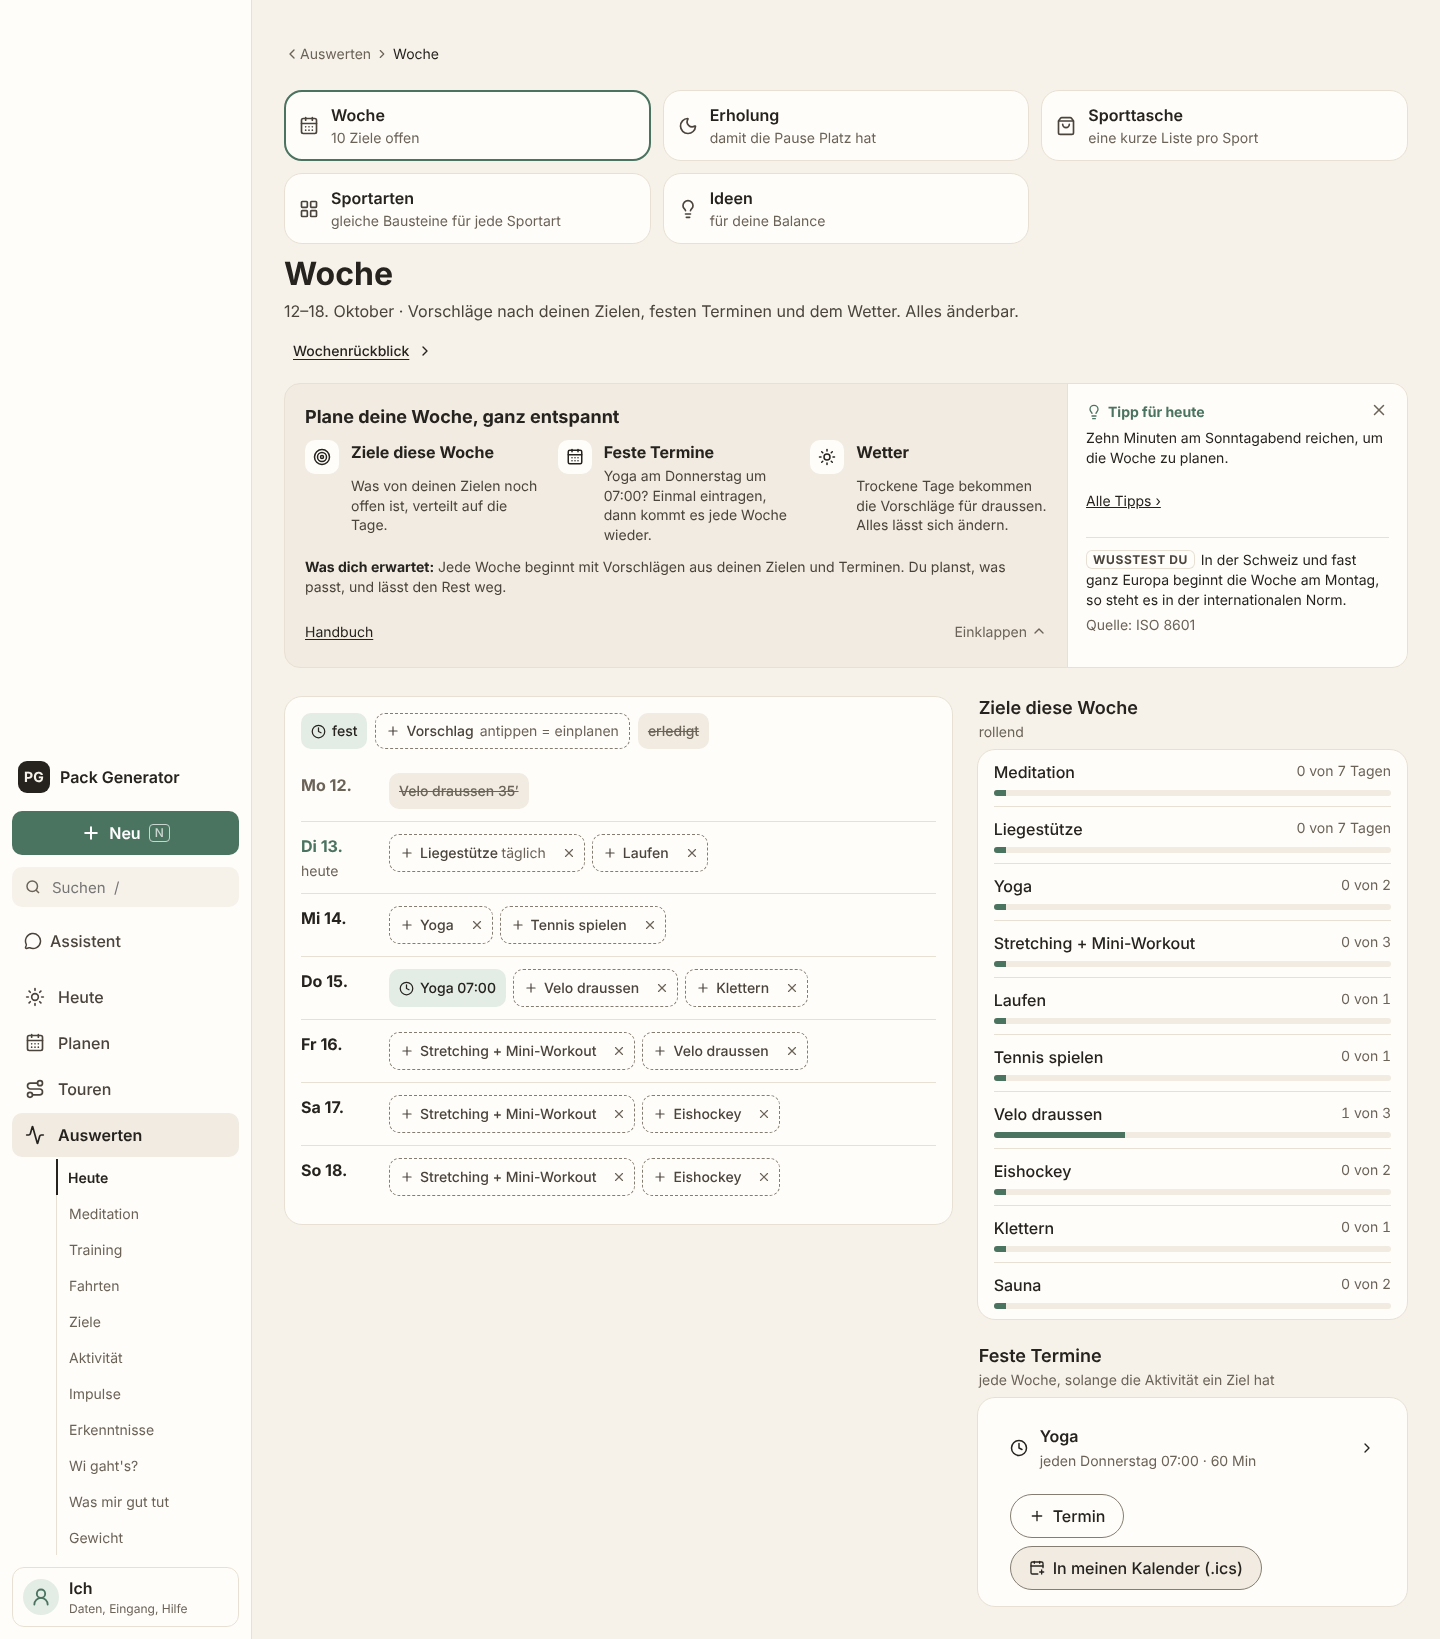
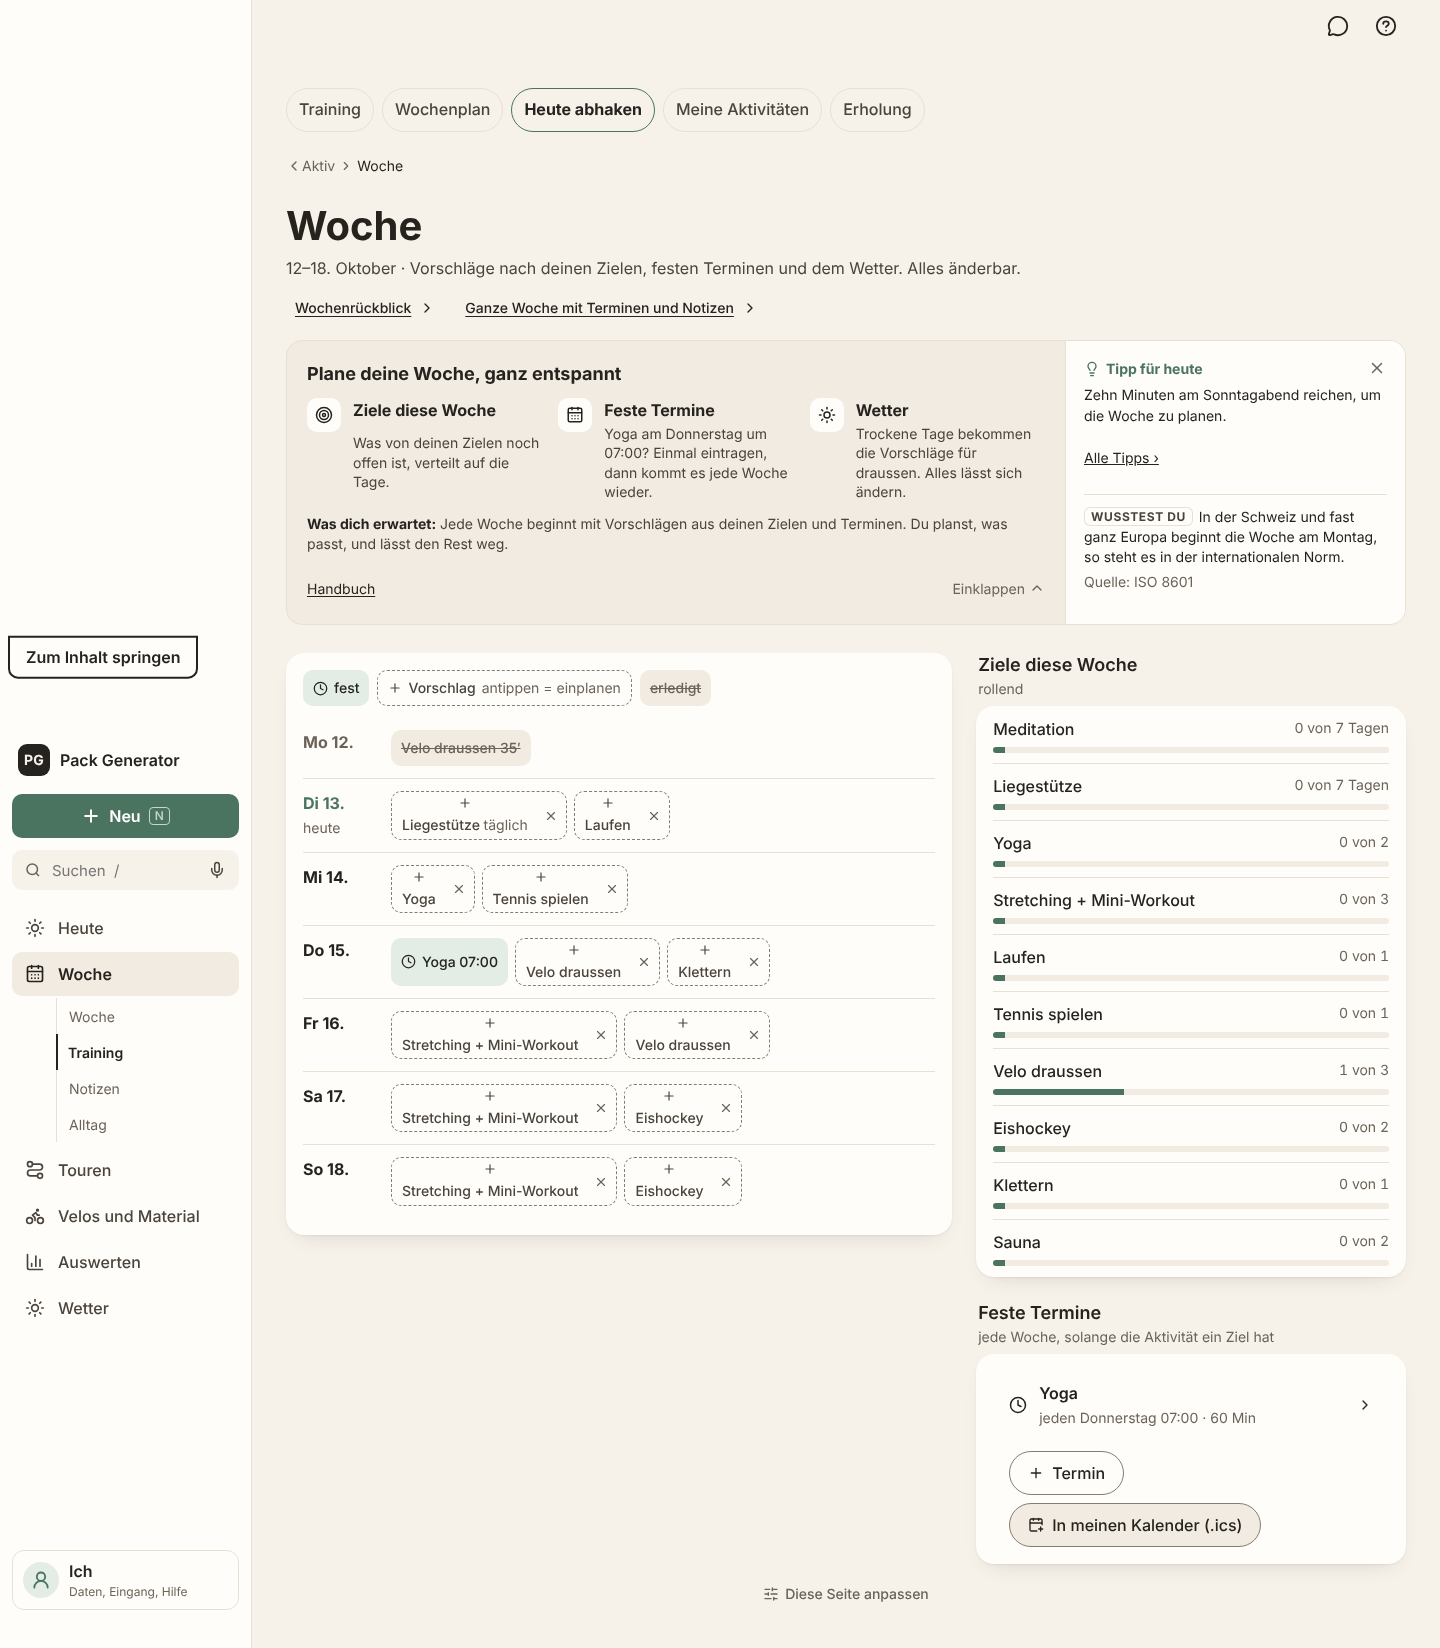
Heute aufräumen: Ohne Bereich am Ende, Tests an die neue Ordnung

diff --git a/tests/e2e/heute-bereiche-anpassen.spec.js b/tests/e2e/heute-bereiche-anpassen.spec.js
@@ -18,18 +18,19 @@ test('the areas of Today: move, rename and hide with Undo; the tiles stay', asyn
   page.on('pageerror', (e) => errors.push(e.message));
   page.on('dialog', (d) => { throw new Error(`browser dialog: ${d.message()}`); });
   const T = await openHome(page, context, info);
-  await expect.poll(async () => (await areas(page)).slice(0, 2)).toEqual(['now', 'body']);
+  // «Heute aufräumen» (Noah 23.11.2026, changed on purpose): Jetzt, then Deine Woche; the rest stands under «Mehr»
+  await expect.poll(async () => (await areas(page)).slice(0, 2)).toEqual(['now', 'week']);
   const tilesBefore = await page.locator('.wall [data-tile]').count();
 
   await page.getByRole('button', { name: T('Customise the start page') }).click();
   const box = page.locator('[data-home-areas]');
   await expect(box.getByRole('heading', { name: T('Areas of Today') })).toBeVisible();
   const rows = () => box.locator('[data-area-row]').evaluateAll((els) => els.map((e) => e.dataset.areaRow));
-  expect((await rows()).slice(0, 2)).toEqual(['now', 'body']);
+  expect((await rows()).slice(0, 2)).toEqual(['now', 'week']);
 
-  // 1a: «Dein Körper» one up
-  await box.locator('[data-area-row="body"]').getByRole('button', { name: T('Move {name} up', { name: T('Your body|home') }) }).click();
-  await expect.poll(async () => (await rows()).slice(0, 2)).toEqual(['body', 'now']);
+  // 1a: «Deine Woche» one up
+  await box.locator('[data-area-row="week"]').getByRole('button', { name: T('Move {name} up', { name: T('Your week|home') }) }).click();
+  await expect.poll(async () => (await rows()).slice(0, 2)).toEqual(['week', 'now']);
 
   // 2a: rename «Jetzt»
   await box.locator('[data-area-row="now"] [data-area-rename]').click();
@@ -38,21 +39,21 @@ test('the areas of Today: move, rename and hide with Undo; the tiles stay', asyn
   await sheet.getByRole('textbox').press('Enter');
   await expect(box.locator('[data-area-row="now"]')).toContainText('test_data_gtp_ Mein Morgen');
 
-  // 2a: hide «Deine Woche»: «Without area» is chosen first
-  await box.locator('[data-area-row="week"] [data-area-hide]').click();
+  // 2a: hide «Dein Körper»: «Without area» is chosen first
+  await box.locator('[data-area-row="body"] [data-area-hide]').click();
   const ask = page.getByRole('dialog');
-  await expect(ask.getByRole('heading')).toHaveText(T('Hide area "{name}"?', { name: T('Your week|home') }));
+  await expect(ask.getByRole('heading')).toHaveText(T('Hide area "{name}"?', { name: T('Your body|home') }));
   await expect(ask.getByRole('radio', { name: T('Without area') })).toBeChecked();
   await shot(page, info, 'bereich-ausblenden');
   await ask.getByRole('button', { name: T('Hide|area') }).click();
-  await expect(box.locator('[data-area-hidden="week"]')).toBeVisible();
+  await expect(box.locator('[data-area-hidden="body"]')).toBeVisible();
   await shot(page, info, 'bereiche-anpassen', box);
 
-  // back on Today: the new order, the own name, no «Deine Woche», its tiles under «Ohne Bereich»
+  // back on Today: the new order, the own name, no «Dein Körper», its tiles under «Ohne Bereich»
   await page.getByRole('button', { name: T('Done|customise') }).first().click();
-  await expect.poll(() => areas(page)).not.toContain('week');
+  await expect.poll(() => areas(page)).not.toContain('body');
   const now = await areas(page);
-  expect(now.slice(0, 2)).toEqual(['body', 'now']);
+  expect(now.slice(0, 2)).toEqual(['week', 'now']);
   expect(now.at(-1)).toBe('none');
   await expect(page.locator('[data-home-sec="now"] h2')).toHaveText('test_data_gtp_ Mein Morgen');
   await expect(page.locator('[data-home-sec="none"] h2')).toHaveText(T('Without area'));
@@ -62,9 +63,9 @@ test('the areas of Today: move, rename and hide with Undo; the tiles stay', asyn
 
   // Undo brings the area back, «Show again» too
   await page.getByRole('button', { name: T('Customise the start page') }).click();
-  await box.locator('[data-area-hidden="week"] [data-area-show]').click();
-  await expect(box.locator('[data-area-row="week"]')).toBeVisible();
+  await box.locator('[data-area-hidden="body"] [data-area-show]').click();
+  await expect(box.locator('[data-area-row="body"]')).toBeVisible();
   await page.getByRole('status').getByRole('button', { name: T('Undo') }).click();
-  await expect(box.locator('[data-area-hidden="week"]')).toBeVisible();
+  await expect(box.locator('[data-area-hidden="body"]')).toBeVisible();
   expect(errors).toEqual([]);
 });

diff --git a/tests/e2e/heute-ruhig.spec.js b/tests/e2e/heute-ruhig.spec.js
@@ -87,7 +87,9 @@ test('a trip today: no photo although the bike has one, the 8 buttons in the fir
   // «Jetzt» right under the meditation card, the weekly weight under the trip, then «Dein Körper» with the body and Aktiv
   await expect.poll(() => page.locator('.wall [data-tile]').evaluateAll((els) => els.map((e) => e.dataset.tile)).then((o) => o.slice(0, 4))).toEqual(['meinetour', 'meditation', 'trip', 'weighin']); // 17.11.2026 (changed on purpose, «Tour nur einmal»): «Your moment» about the trip is away while «My tour» stands // «Dein Moment» sits right under the meditation card; «Entdecken» comes after the trip and the weight
   const o = await page.locator('.wall [data-tile]').evaluateAll((els) => els.map((e) => e.dataset.tile));
-  expect(o.filter((id) => HEAD.includes(id) && id !== 'meditation')).toEqual(HEAD.filter((id) => id !== 'meditation' && o.includes(id)));
+  // «Heute aufräumen» (Noah 23.11.2026, changed on purpose): «Entdecken» stands under «Mehr», after the body and Aktiv
+  expect(o.filter((id) => HEAD.includes(id) && id !== 'meditation' && id !== 'discover')).toEqual(HEAD.filter((id) => id !== 'meditation' && id !== 'discover' && o.includes(id)));
+  if (o.includes('discover')) expect(o.indexOf('discover')).toBeGreaterThan(o.indexOf('acts'));
   await shot(page, info, 'heute-mit-tour');
 
   // the photo is still there, under Velos › Setup › More
@@ -112,7 +114,9 @@ test('no trip today: the suggestion is a row of Up now; no photo; Continue for a
   const T = await openHome(page, context, info, { data, hour: 9 });
 
   await expect(page.locator('#next-h')).toHaveText(T('How was {trip}?', { trip: 'test_data_gtp_ Albula' }));
-  await expect(page.locator('[data-row="continue"]')).toContainText('test_data_gtp_ Fern');
+  // «Heute aufräumen» (Noah 23.11.2026, changed on purpose): «My tour» names Fern, so the strip «Continue» does not say it a second time
+  await expect(page.locator('[data-tile="meinetour"]')).toContainText('test_data_gtp_ Fern');
+  await expect(page.locator('[data-row="continue"]')).toHaveCount(0);
   await expect(page.locator('[data-photo]')).toHaveCount(0);
   // «Heute neu» A (changed on purpose): the suggestion is one row of «Up now» with «Quick start», the greeting is one sentence
   await expect(page.locator('[data-suggestion]')).toHaveCount(0);

diff --git a/src/lib/home/Wall.svelte b/src/lib/home/Wall.svelte
@@ -21,7 +21,7 @@
    */
   import { GripVertical, X, ChevronLeft, ChevronRight, ChevronDown, Plus } from '@lucide/svelte';
   import { TILE, SIZE_NAME, stepTile, moveTile, removeTile, resizeTile } from './tiles.js';
-  import { sectionsOf, fillers } from './sections.js';
+  import { sectionsOf, fillers, NONE } from './sections.js';
   import { runsOf } from './quick.js';
   import { t } from '../i18n.svelte.js';
   import { phone } from '../media.svelte.js';
@@ -169,7 +169,7 @@
   <div class="wall" class:secs={sections} bind:this={wallEl} role="list" aria-label={t('Your start page')}>
     {#if sections}
       {@const secs = sectionsOf(shown, areas)}
-      {#each secs.filter((g) => !MORE.includes(g.key)) as g (g.key)}{@render areaS(g)}{/each}
+      {#each secs.filter((g) => !MORE.includes(g.key) && g.key !== NONE) as g (g.key)}{@render areaS(g)}{/each}
       {#if secs.some((g) => MORE.includes(g.key))}
         <!-- Heute aufräumen (23.11.2026, Noah «ja»): what is not for right now stands under one closed line «More» (body values, on the road, quick links, discover) -->
         {@const rest = secs.filter((g) => MORE.includes(g.key))}
@@ -179,6 +179,7 @@
         </div>
         {#if moreOpen}{#each rest as g (g.key)}{@render areaS(g)}{/each}{/if}
       {/if}
+      {#each secs.filter((g) => g.key === NONE) as g (g.key)}{@render areaS(g)}{/each}
     {:else}
       {#each runsOf(shown) as r, i (r.key === 'quick' ? 'quick' : `${i}`)}
         {#if r.key === 'quick'}{@render quickS(r.tiles)}{:else}{#each r.tiles as x (x.id)}{@render tileEl(x, '', undefined, seen.indexOf(x))}{/each}{/if}

diff --git a/tests/e2e/home-0460.spec.js b/tests/e2e/home-0460.spec.js
@@ -73,7 +73,7 @@ test('sections, greeting with the weather, the trip card, the 16 functions as sm
   // «Meine Tour» (Plan 2a, Noah 09.11.2026 «ok 1232»): with a planned tour the card is first, the meditation card right under it
   await expect(page.locator('.wall > [data-tile]').first()).toHaveAttribute('data-tile', 'meinetour');
   const areas = await page.locator('.wall [data-home-sec]').evaluateAll((els) => els.map((e) => e.dataset.homeSec));
-  expect(areas.slice(0, 2)).toEqual(['now', 'body']);
+  expect(areas.slice(0, 2)).toEqual(['now', 'week']); // «Heute aufräumen» (Noah 23.11.2026, changed on purpose): Jetzt, Deine Woche, then «Mehr»
   await expect(page.locator('[data-home-sec="now"] h2')).toHaveText(T('Now|home'));
   const order = await page.locator('[data-section="weighin"], [data-section="body"], [data-section="acts"], [data-section="trip"], [data-section="today"]').evaluateAll((els) => els.map((e) => e.dataset.section));
   expect(order.filter((x, i, a) => a.indexOf(x) === i)).toEqual(['trip', 'weighin', 'today', 'body', 'acts']);

diff --git a/tests/e2e/heute-a.spec.js b/tests/e2e/heute-a.spec.js
@@ -32,7 +32,9 @@ test.describe('HA Heute neu A', () => {
     await expect(body.locator('[data-body="pulse"]')).toContainText(T('yesterday {v}', { v: '52' }));
     await expect(body.locator('[data-body="sleep"] b')).toHaveText(/7[.,]5 h/);
     await expect(body.locator('[data-body="azm"] b')).toHaveText('12');
-    await expect(body.locator('[data-body-check]')).toBeVisible();
+    // «Heute aufräumen» (Noah 23.11.2026, changed on purpose): the morning check stands once, as the tile «Heute-Check»; the body tile has no second row
+    await expect(page.locator('[data-tile="heutecheck"]')).toBeVisible();
+    await expect(body.locator('[data-body-check]')).toHaveCount(0);
     // Fitbit everywhere (Noah 20.10.2026 22:21): the balance shows the measured pulse and today's active zone minutes
     const pc = page.locator('[data-section="balance"] [data-pc="body"]');
     await expect(pc).toContainText('55');

diff --git a/tests/e2e/spruch.spec.js b/tests/e2e/spruch.spec.js
@@ -35,7 +35,8 @@ test('Spruch: ein Satz auf Berndeutsch, der Wert dahinter und ein neuer Satz', a
   // the tile sits right under «Up now» (the area «Jetzt»), before the bikes
   const order = await page.evaluate(() => [...document.querySelectorAll('[data-section]')].map((e) => e.getAttribute('data-section')));
   expect(order.indexOf('spruch')).toBeGreaterThan(-1);
-  expect(order.indexOf('spruch')).toBeLessThan(order.indexOf('bikes'));
+  // «Heute aufräumen» (Noah 23.11.2026, changed on purpose): the saying stands under «Mehr» (Entdecken), after the bikes
+  expect(order.indexOf('spruch')).toBeGreaterThan(order.indexOf('bikes'));
 });
 
 test('Spruch: ohne Zahlen kommt ein Zitat aus der Kissenzeit auf Hochdeutsch', async ({ page, context }, info) => {
